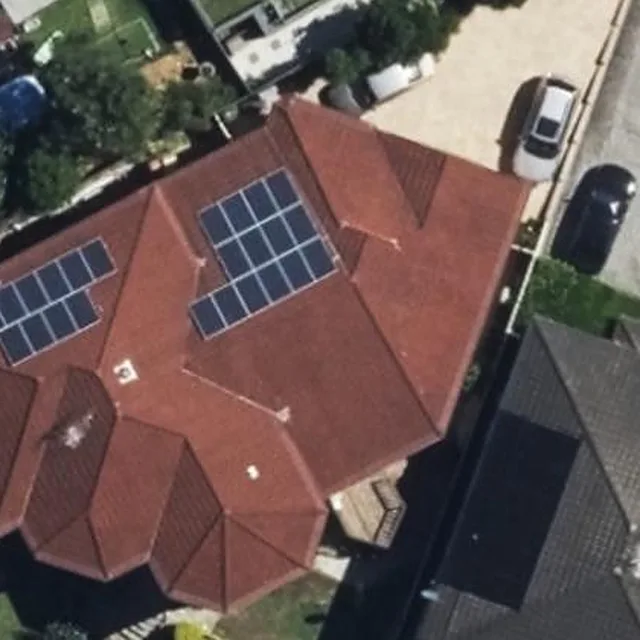
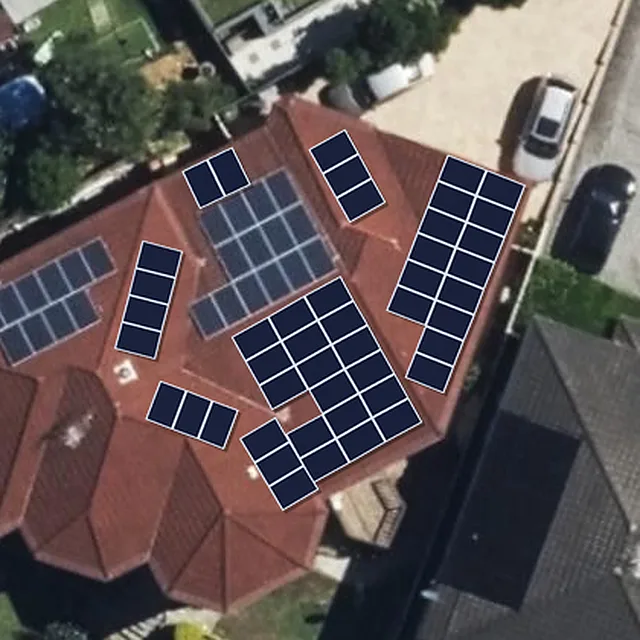
Site Portfolio: OpenSolar panel layouts back on 8 cards; Blakehurst Platform Designer
Owner's choice: designed layouts from OpenSolar drawn on the aerial photo,
Blakehurst from the Platform Designer. Footnote updated.

Claude-Session: https://claude.ai/code/session_014kMAC6gRMpRyCZmjhjfECq

diff --git a/src/utils/constant.tsx b/src/utils/constant.tsx
@@ -3137,7 +3137,7 @@ export const ABOUT_US_PAGE = {
     subtitle:
       "Real EasyLink systems across Sydney, with the projected savings from each customer's proposal.",
     footnote:
-      "Savings are projections from each customer's proposal (bill savings plus export credits over the system's life), not metered results. Aerial photos show each roof as last photographed, which can be before installation; Blakehurst shows the Platform Designer layout. Aerial imagery © NSW Spatial Services, Department of Customer Service (CC BY 4.0).",
+      "Savings are projections from each customer's proposal (bill savings plus export credits over the system's life), not metered results. Panel layouts are drawn from each system's OpenSolar design (Blakehurst from the EasyLink Platform Designer) on the latest aerial photo. Aerial imagery © NSW Spatial Services, Department of Customer Service (CC BY 4.0).",
     items: [
       { id: "sans-souci", status: "Installed", client: "George", suburb: "Sans Souci", imageSrc: "/images/about-us/portfolio/sans-souci.webp", systemKw: 17.22, panels: "28 × Canadian Solar 615 W", batteryKwh: 40.3, batteryBrand: "SigEnergy", annualKwh: 25818, annualSavings: 3896, payback: "4 years", lifetimeSavings: 89268 },
       { id: "kyle-bay", status: "Installed", client: "Shariff", suburb: "Kyle Bay", imageSrc: "/images/about-us/portfolio/kyle-bay.webp", systemKw: 21.06, panels: "36 × Trina 585 W", batteryKwh: 24.2, annualKwh: 29726, annualSavings: 2531, payback: "4 years 9 months", lifetimeSavings: 58200 },
